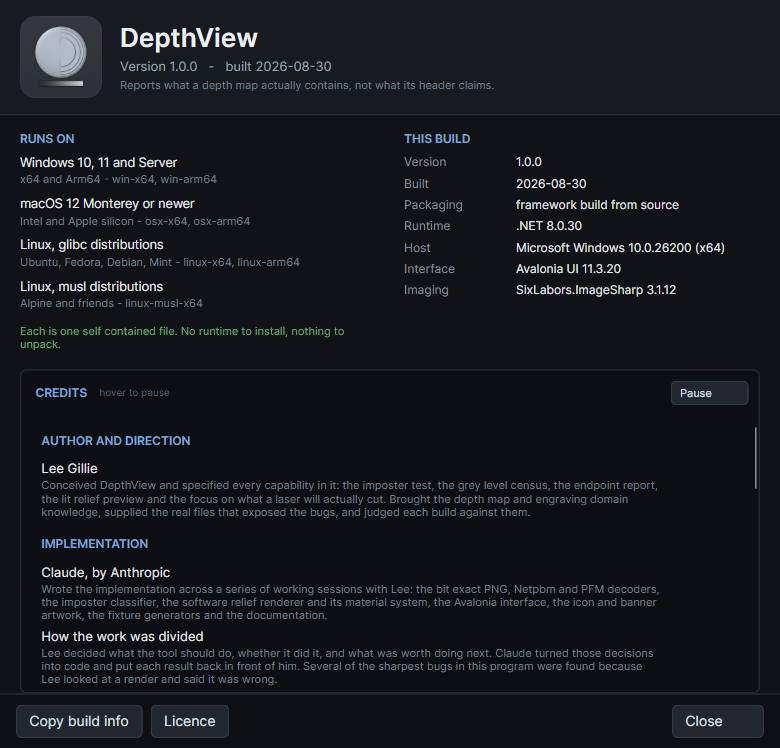
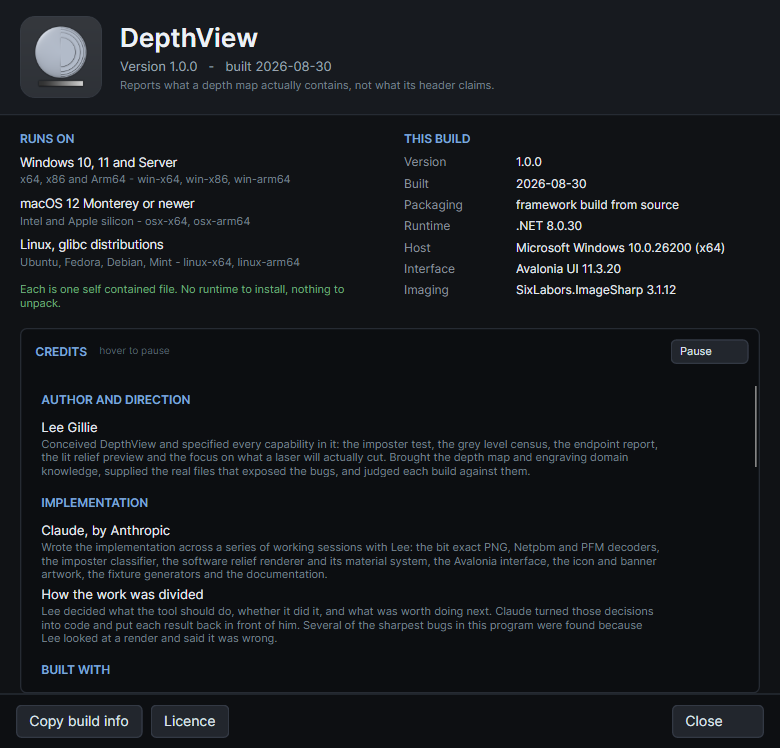
Correct the About box platform list, and separate release blockers in TODO
BuildInfo.Platforms advertised linux-musl-x64, which publish.ps1 does not build, and
omitted win-x86, which it does. An About box that names a target the publish scripts
cannot produce is a promise the project cannot keep, so the list now mirrors the seven
RIDs exactly and says so in a comment.

TODO gains a section for what blocks a public release, split out from general
housekeeping: never having been built on macOS or Linux despite claiming both, no
published binaries, unsigned binaries and what users will see, no macOS .app bundle,
no Linux .desktop entry, no test project, no CI.

Changed region(s): [[0.0308, 0.369, 0.8615, 0.9225], [0.8308, 0.4305, 0.9846, 0.5535], [0.0615, 0.2152, 0.3692, 0.246]]

diff --git a/src/DepthView/BuildInfo.cs b/src/DepthView/BuildInfo.cs
@@ -34,15 +34,17 @@ public static class BuildInfo
     public static string ImageLibrary { get; } = Named("SixLabors.ImageSharp", Metadata("ImageSharpVersion"));
 
     /// <summary>
-    /// Platforms this build is published for. These are the seven runtime identifiers in
-    /// publish.ps1 / publish.sh; keep the two in step. Tuple is (name, detail).
+    /// Platforms this build is published for. These are exactly the seven runtime
+    /// identifiers in publish.ps1 and publish.sh, and nothing else: an About box that
+    /// names a target the publish scripts do not build is a promise the project cannot
+    /// keep. If you add or drop a RID there, change it here in the same commit.
+    /// Tuple is (name, detail).
     /// </summary>
     public static readonly (string Name, string Detail)[] Platforms =
     {
-        ("Windows 10, 11 and Server",   "x64 and Arm64 - win-x64, win-arm64"),
+        ("Windows 10, 11 and Server",   "x64, x86 and Arm64 - win-x64, win-x86, win-arm64"),
         ("macOS 12 Monterey or newer",  "Intel and Apple silicon - osx-x64, osx-arm64"),
         ("Linux, glibc distributions",  "Ubuntu, Fedora, Debian, Mint - linux-x64, linux-arm64"),
-        ("Linux, musl distributions",   "Alpine and friends - linux-musl-x64"),
     };
 
     /// <summary>

diff --git a/TODO.md b/TODO.md
@@ -134,16 +134,51 @@ Tier 2 (orbit, tilt, zoom, pan with real geometry) are both **built**. Deferred:
 
 ---
 
-## 5. Housekeeping
+## 5. Blocking a public release
+
+Nothing here is a missing feature. These are the things a stranger arriving at a public
+repository would find absent, ordered by how much each one costs the project's credibility.
+
+- **Never built or run on macOS or Linux.** The README and the About box both name three
+  platforms; only Windows has ever executed a line of this code. Architecturally it should
+  be fine — Avalonia, net8.0, a software renderer, no P/Invoke on the analysis path — but
+  "should" is not "does", and being wrong about this on a tool whose entire pitch is *do not
+  trust what the header claims* would be an unusually bad look. **A GitHub Actions matrix
+  build across ubuntu, macos and windows settles it without owning a Mac, and is perhaps an
+  hour's work.**
+- **No published binaries.** `publish.ps1` makes all seven, and none of them are on a
+  Releases page. Until they are, installation is "install the .NET SDK and a compiler",
+  which is a developer's repository rather than a tool.
+- **Unsigned binaries.** Windows SmartScreen will warn, and macOS Gatekeeper will quarantine
+  a downloaded unsigned binary outright. Code signing costs money and an Apple developer
+  account; the cheap mitigation is a README section telling people exactly what they will
+  see and how to get past it. Do at least the cheap one before publishing binaries.
+- **No macOS `.app` bundle.** `publish.ps1` emits a bare Mach-O executable, so on macOS
+  there is no icon, no Finder double-click, and no bundle identifier. A `.app` is a
+  directory with an `Info.plist`, an `.icns` and the binary — scriptable, but not free.
+- **No Linux desktop integration.** No `.desktop` entry and no icon theme install, so the
+  program has no menu entry and no icon in a launcher.
+- **No automated test project.** The fixtures are verified by hand against NumPy and the
+  results were exact, but that verification lives in a conversation rather than in the
+  repository. Wrapping the existing fixtures in a test runner is mostly mechanical and pays
+  for itself the first time a decoder is touched.
+- **No CI.** Nothing checks that the build is clean on push. Solved by the same workflow
+  file as the platform question above.
+- No `CONTRIBUTING.md`, issue templates, or `CHANGELOG.md`. Cheap, and only worth doing if
+  contributions are actually wanted.
+- No versioning policy or git tags. The version lives in one place in the csproj and is
+  reported by the About box; nothing yet ties it to a tag.
+
+## 6. Housekeeping
 
 - Avalonia 11.3 marks `DataFormats` and `IClipboard.GetDataAsync` obsolete in favour of the
   `DataTransfer` API arriving in 12.x. Currently suppressed with a scoped
   `#pragma warning disable CS0618` and a comment. Revisit when moving to Avalonia 12.
-- No automated test project. The fixtures in `tests/` are verified by hand against NumPy;
-  worth wrapping in a real test runner so regressions are caught on build.
-- Icon is done. Still outstanding for a release: a splash or About box, a version stamp
-  visible in the UI, and a macOS `.icns` / Linux `.desktop` entry so the icon shows there too
-  (the `.ico` only covers Windows).
+- Icon and About box are done. The About box carries the version, the build date, the
+  supported platforms, the live runtime and host, the credit roll and the licence. The
+  platform list in `BuildInfo.Platforms` is duplicated knowledge: it must be changed in the
+  same commit as any RID change in `publish.ps1` / `publish.sh`, or the program starts
+  advertising builds that do not exist. It already did that once, briefly.
 - Licensing is settled and needs no further thought. DepthView is MIT and is not going to
   become a paid tool, and the Six Labors terms grant Apache 2.0 rights to open-source
   consumers regardless of revenue, so the ImageSharp position cannot change. Dependency
